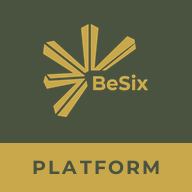
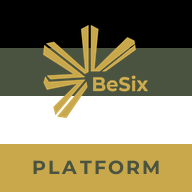
Vlajka se 4 rovnými pruhy (25 % každý) — ikona i web
- PWA ikona: 4 stejně vysoké pruhy (černá/olivová/bílá/zlatá, 25 % každý)
- index.html: logo na stránce i v auth modalu nahrazeno vlajkou se stejnými pruhy
- Odstraněn JS, který kopíroval src loga do modal-logo

Claude-Session: https://claude.ai/code/session_01MHpC1V8Xdd8XYG9i9BmYpw

diff --git a/index.html b/index.html
@@ -11,7 +11,7 @@
 <meta name="apple-mobile-web-app-status-bar-style" content="black-translucent">
 <meta name="apple-mobile-web-app-title" content="Platform">
 <link rel="apple-touch-icon" href="/icon-192.png">
-<link href="https://fonts.googleapis.com/css2?family=Rajdhani:wght@400;600;700&family=Exo+2:wght@200;300;400&display=swap" rel="stylesheet">
+<link href="https://fonts.googleapis.com/css2?family=Rajdhani:wght@400;600;700&family=Exo+2:wght@200;300;400&family=Montserrat:wght@700&display=swap" rel="stylesheet">
 <style>
 :root {
   --olive:       #4A5340;
@@ -53,40 +53,49 @@ html, body { width:100%; min-height:100vh; overflow-x:hidden; background:var(--o
   padding:60px 32px;
 }
 
-/* ── LOGO ── */
+/* ── LOGO / FLAG ── */
 .logo-wrap {
-  display:flex; align-items:center; gap:26px; margin-bottom:12px;
+  display:flex; align-items:center; justify-content:center; margin-bottom:12px;
   animation:fadeDown 1s cubic-bezier(0.16,1,0.3,1) both 0.2s;
 }
+.besix-flag {
+  width:260px;
+  display:flex; flex-direction:column;
+  border-radius:6px; overflow:hidden;
+  box-shadow:0 8px 48px rgba(0,0,0,0.55), 0 0 0 1px rgba(255,255,255,0.08);
+  flex-shrink:0;
+}
+.flag-black { height:65px; background:#000; }
+.flag-olive {
+  height:65px; background:#4A5340;
+  display:flex; align-items:center; justify-content:center;
+}
+.flag-white { height:65px; background:#fff; }
+.flag-gold {
+  height:65px; background:#c9a84c;
+  display:flex; align-items:center; justify-content:center;
+}
+.flag-logo-img {
+  width:146px; object-fit:contain;
+  filter:invert(70%) sepia(50%) saturate(500%) hue-rotate(1deg) brightness(95%) contrast(85%);
+}
+.flag-platform {
+  font-family:'Montserrat','Rajdhani',sans-serif;
+  font-size:26px; font-weight:700;
+  color:#4A5340; letter-spacing:3px; text-transform:uppercase;
+}
 
-.logo-img-wrap {
-  position:relative; width:280px; height:280px;
-  display:flex; align-items:center; justify-content:center; flex-shrink:0;
+/* auth modal flag */
+.auth-flag {
+  width:110px; display:flex; flex-direction:column;
+  border-radius:4px; overflow:hidden; margin-bottom:14px;
 }
-/* glow ring */
-.logo-img-wrap::before {
-  content:''; position:absolute; inset:-16px; border-radius:50%;
-  background:radial-gradient(ellipse,rgba(255,255,255,0.18) 0%,transparent 70%);
-  animation:glowPulse 3s ease-in-out infinite;
-}
-@keyframes glowPulse { 0%,100%{opacity:0.5;transform:scale(1)} 50%{opacity:1;transform:scale(1.1)} }
-
-.logo-img {
-  width:260px; height:260px; object-fit:contain;
-  filter: brightness(0) invert(1) drop-shadow(0 0 14px rgba(255,255,255,0.8)) drop-shadow(0 0 36px rgba(255,255,255,0.4));
-}
-
-
-.logo-right { display:flex; flex-direction:column; }
-.logo-name {
-  font-family:'Rajdhani',sans-serif; font-size:0.75rem; font-weight:600;
-  letter-spacing:0.12em; line-height:1; color:#fff;
-  text-shadow:0 0 30px rgba(255,255,255,0.3);
-}
-.logo-sub {
-  font-size:0.62rem; letter-spacing:0.38em; text-transform:uppercase;
-  color:var(--gold); font-weight:300; margin-top:6px; opacity:0.85;
-}
+.auth-flag .flag-black { height:28px; }
+.auth-flag .flag-olive { height:28px; }
+.auth-flag .flag-white { height:28px; }
+.auth-flag .flag-gold  { height:28px; }
+.auth-flag .flag-logo-img { width:62px; }
+.auth-flag .flag-platform { font-size:11px; letter-spacing:2px; }
 
 /* ── TAGLINE ── */
 .tagline {
@@ -336,7 +345,7 @@ html, body { width:100%; min-height:100vh; overflow-x:hidden; background:var(--o
   width:100%; max-width:1280px;
 }
 @media(max-width:960px){ .cards{grid-template-columns:repeat(2,1fr);} }
-@media(max-width:720px){ .cards{grid-template-columns:1fr;} .logo-img{width:180px;height:180px;} .logo-img-wrap{width:200px;height:200px;} .logo-name{font-size:0.75rem;} }
+@media(max-width:720px){ .cards{grid-template-columns:1fr;} .besix-flag{width:200px;} .flag-black{height:50px;} .flag-olive{height:50px;} .flag-white{height:50px;} .flag-gold{height:50px;} .flag-logo-img{width:112px;} .flag-platform{font-size:20px;letter-spacing:2px;} }
 
 .card {
   position:relative; display:block; text-decoration:none; color:inherit;
@@ -452,11 +461,11 @@ html, body { width:100%; min-height:100vh; overflow-x:hidden; background:var(--o
 <div class="page">
 
   <div class="logo-wrap">
-    <div class="logo-img-wrap">
[1 lines of base64/hex data omitted]
-    </div>
-    <div class="logo-right">
-      <span class="logo-name" style="font-size:0.72rem;letter-spacing:0.15em;font-weight:400;">Digitalizace stavebnictví</span>
+    <div class="besix-flag">
+      <div class="flag-black"></div>
+      <div class="flag-olive"><img class="flag-logo-img" src="/besix_logo_bila.png" alt="BeSix"></div>
+      <div class="flag-white"></div>
+      <div class="flag-gold"><span class="flag-platform">PLATFORM</span></div>
     </div>
   </div>
 
@@ -604,8 +613,12 @@ html, body { width:100%; min-height:100vh; overflow-x:hidden; background:var(--o
     <button class="auth-close" onclick="closeAuth()">✕</button>
 
     <div class="auth-logo-wrap">
-      <img id="modal-logo" class="auth-logo-img" src="" alt="BeSix">
-      <div class="auth-platform">Platform</div>
+      <div class="auth-flag besix-flag">
+        <div class="flag-black"></div>
+        <div class="flag-olive"><img class="flag-logo-img" src="/besix_logo_bila.png" alt="BeSix"></div>
+        <div class="flag-white"></div>
+        <div class="flag-gold"><span class="flag-platform">PLATFORM</span></div>
+      </div>
     </div>
 
     <div class="auth-tabs">
@@ -677,7 +690,6 @@ const API = '/api/auth.php?action=';
 
 // ── MODAL ────────────────────────────────────────────────────────────
 function openAuth(){
-  document.getElementById('modal-logo').src = document.querySelector('.logo-img').src;
   document.getElementById('auth-modal').classList.add('open');
   document.body.style.overflow = 'hidden';
 }
